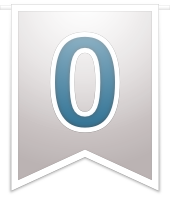
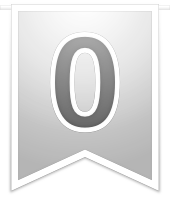
Touched up empty set image (grayscaled) and margins.

Changed region(s): [[0.3235, 0.18, 0.6765, 0.66]]

diff --git a/app/assets/stylesheets/requests.css.sass b/app/assets/stylesheets/requests.css.sass
@@ -10,13 +10,13 @@ textarea#comment_content
   width: 90%
 
 .empty_set
-  color: #CCC
+  color: #aaa
   height: 200px
   background-image: url(/assets/zero.png)
   background-repeat: no-repeat
   padding-left: 200px
   padding-top: 40px
-  margin-left: 60px
+  margin-left: 20px
   margin-top: 50px
 
 .requests
